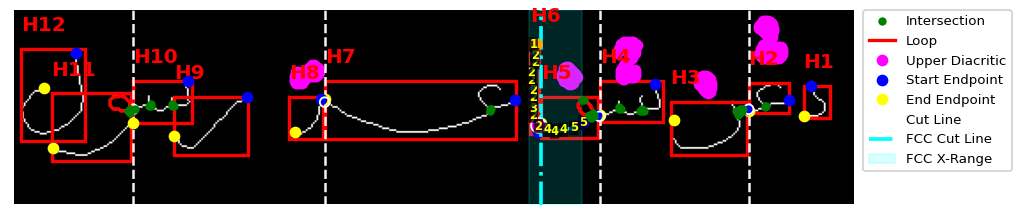
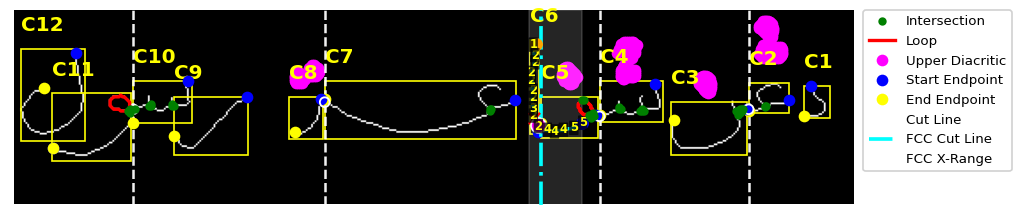
color bounding box

diff --git a/SATU_CITRA_GRAPH_FCC.py b/SATU_CITRA_GRAPH_FCC.py
@@ -4487,7 +4487,7 @@ if FCC_AKTIF and "TARGET_FREEMAN_XRANGE" in globals():
     ax.axvspan(
         TARGET_FREEMAN_XRANGE[0],
         TARGET_FREEMAN_XRANGE[1],
-        color="cyan",
+        color="white",
         alpha=0.15,
         label="FCC X-Range",
         zorder=2
@@ -4515,9 +4515,9 @@ for idx, region_mask in enumerate(sorted_hasil_potongan):
     skel_part = skeletonize(badan_huruf)
     py, px = np.where(skel_part)
 
-    rect = patches.Rectangle((min_x_seg, min_y_seg), w_seg, h_seg, linewidth=2, edgecolor='red', facecolor='none')
+    rect = patches.Rectangle((min_x_seg, min_y_seg), w_seg, h_seg, linewidth=1, edgecolor='#FFFF00', facecolor='none')
     ax.add_patch(rect)
-    ax.text(min_x_seg, min_y_seg-10, f"H{idx+1}", color='red', fontsize=12, fontweight='bold')
+    ax.text(min_x_seg, min_y_seg-10, f"C{idx+1}", color='#FFFF00', fontsize=12, fontweight='bold')
 
 handles, labels = ax.get_legend_handles_labels()
 by_label = dict(zip(labels, handles))
